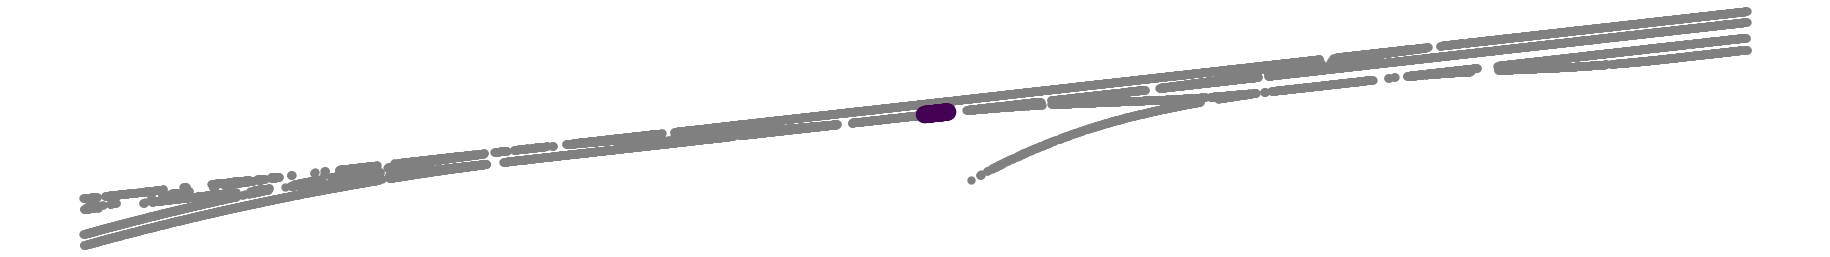
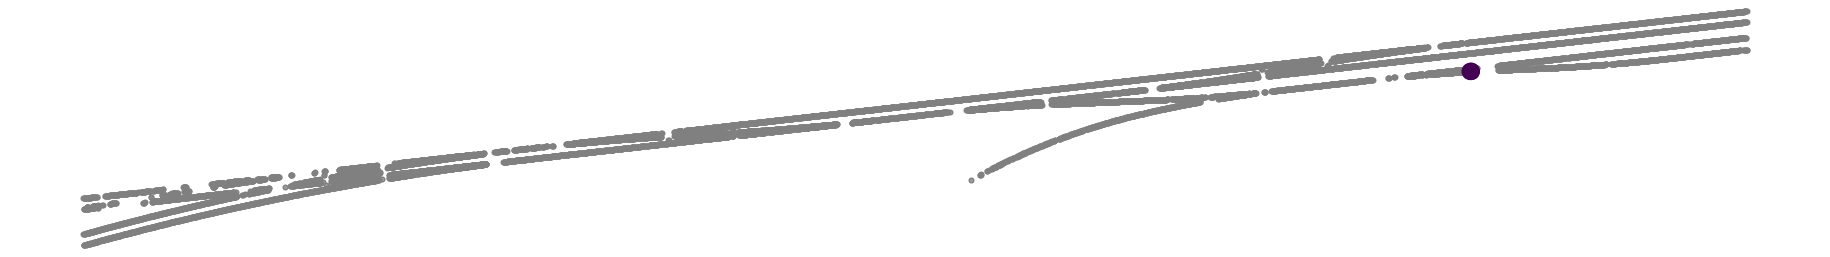
add point in switchline

diff --git a/growingline.py b/growingline.py
@@ -180,6 +180,7 @@ class GrowingLine:
             switchline.head_fid = first_fid
             switchline.head_xyz = first_xyz
             switchline.head_direction = first_direction
+            switchline.points = [first_xyz]
             switchline.start_fid = None
 
         return cut_active_line
